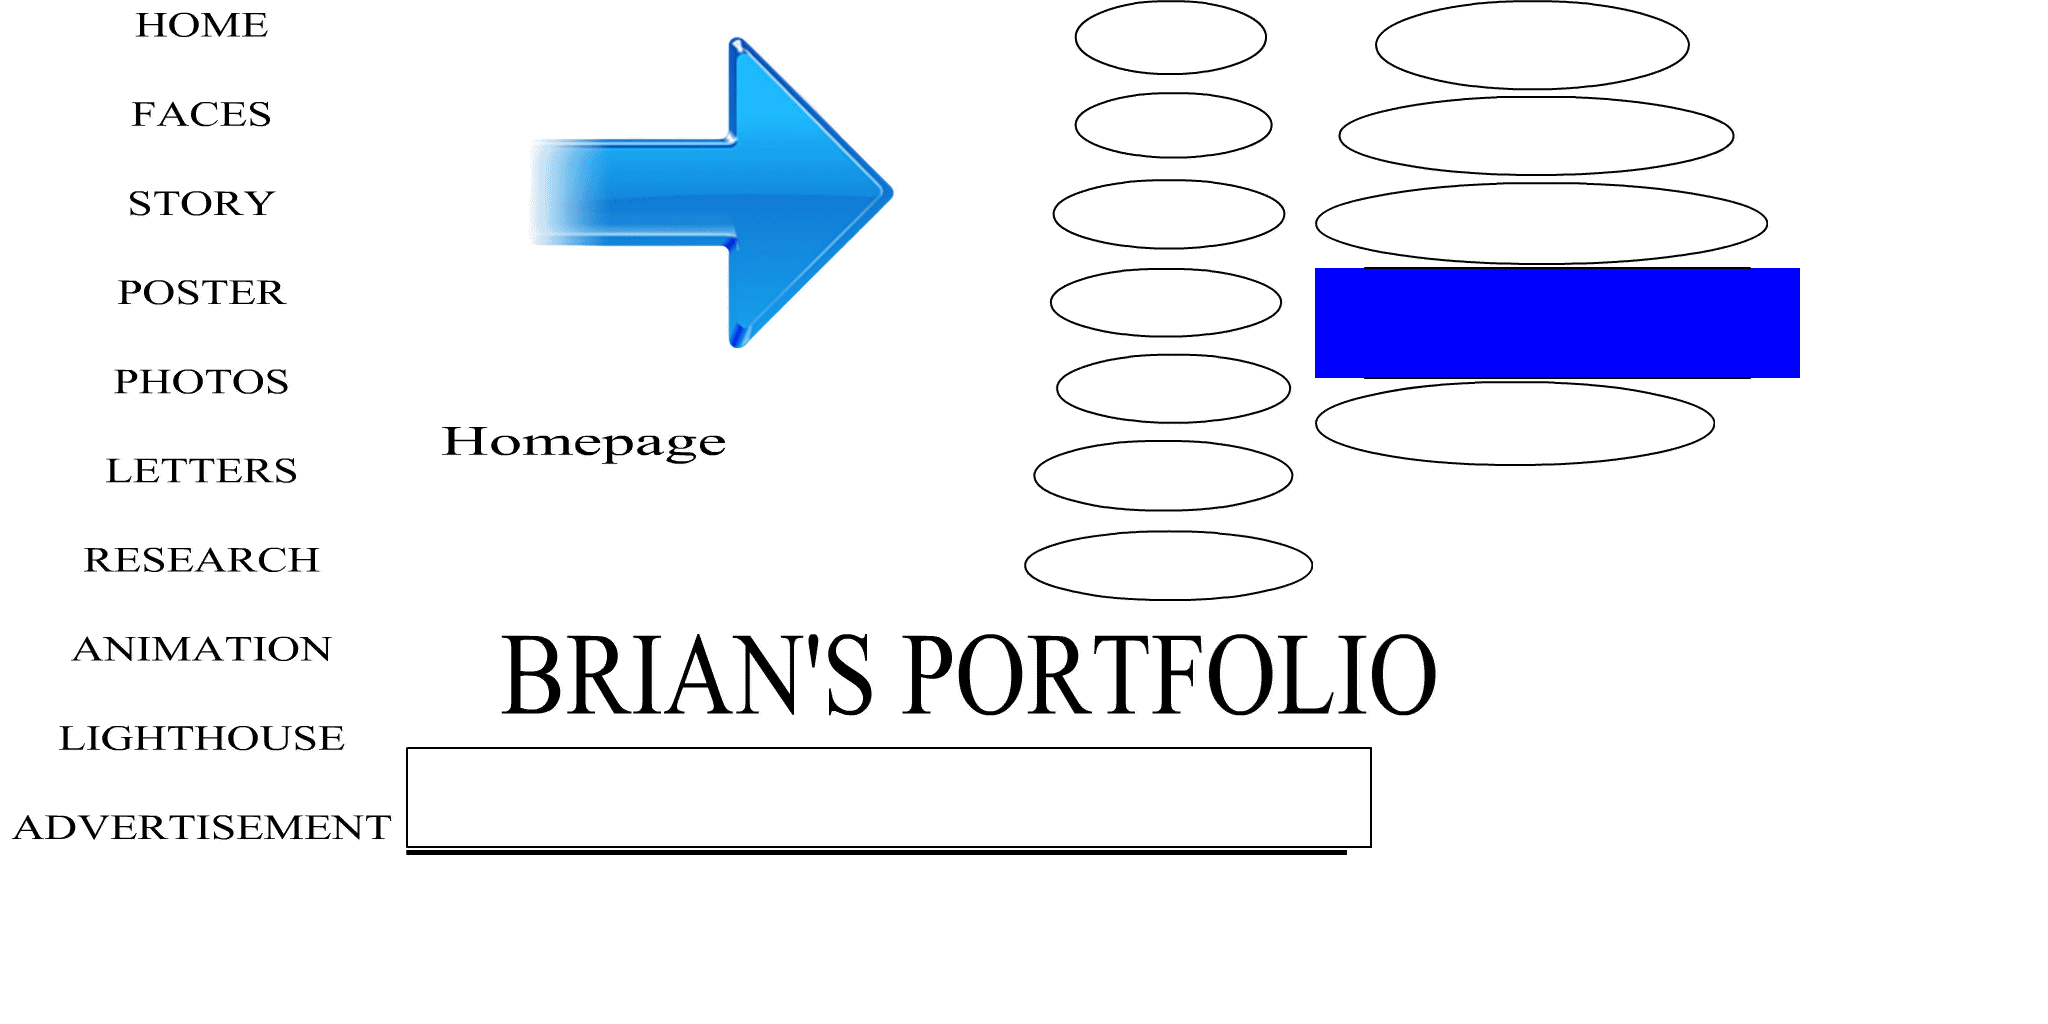
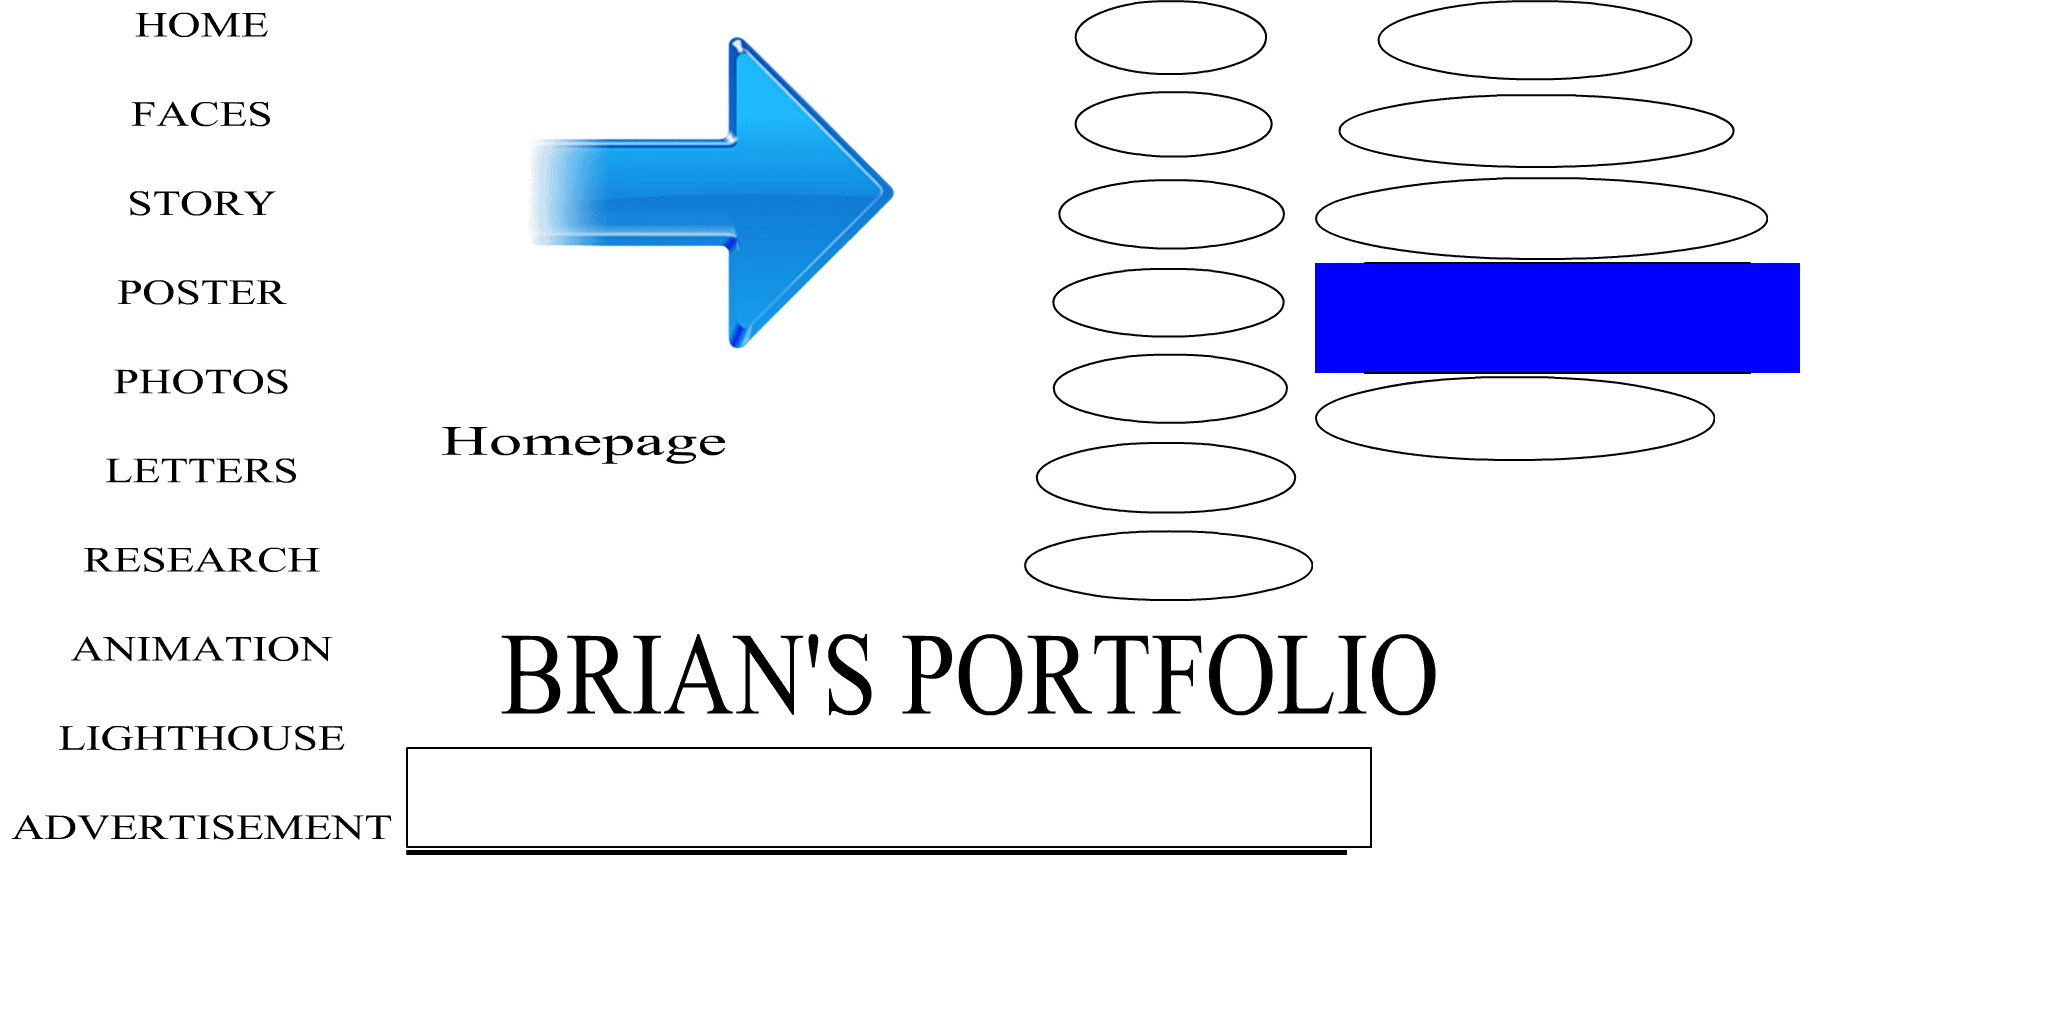
'Changes'

diff --git a/gd_portfolio/Controller.js b/gd_portfolio/Controller.js
@@ -4,7 +4,7 @@ var p; // shortcut to reference prototypes
 var lib={};var ss={};var img={};
 lib.ssMetadata = [
 		{name:"Controller_atlas_", frames: [[0,0,1920,1200]]},
-		{name:"Controller_atlas_2", frames: [[1315,267,485,112],[406,747,966,101],[406,603,1128,142],[406,850,941,5],[1024,0,289,601],[1315,381,400,85],[406,407,356,68],[0,0,404,852],[1315,0,453,265],[406,0,616,405]]}
+		{name:"Controller_atlas_2", frames: [[1315,262,485,112],[406,747,966,101],[406,603,1128,142],[406,850,941,5],[1024,0,289,601],[1315,376,400,85],[406,407,356,68],[0,0,404,852],[1315,0,453,260],[406,0,616,405]]}
 ];
 
 
@@ -214,7 +214,7 @@ p.nominalBounds = new cjs.Rectangle(-22,-0.5,264.5,56);
 		this.btn_ad.addEventListener("click", fl_ClickToGoToAndStopAtFrame_10.bind(this));
 		
 		function fl_ClickToGoToAndStopAtFrame_10() {
-			$("#video_ins")[0].src = "IT.mkv";
+			$("#video_ins")[0].src = "IT2.mp4";
 		}
 		
 		this.return_btn.addEventListener("click", a);
@@ -305,7 +305,7 @@ p.nominalBounds = new cjs.Rectangle(-22,-0.5,264.5,56);
 	this.instance_1.setTransform(134.65,208.15,0.5,0.5);
 
 	this.instance_2 = new lib.CachedBmp_1();
-	this.instance_2.setTransform(124.35,508.95,0.5,0.5);
+	this.instance_2.setTransform(124.35,511.45,0.5,0.5);
 
 	this.timeline.addTween(cjs.Tween.get({}).to({state:[{t:this.instance_2},{t:this.instance_1},{t:this.instance}]}).wait(1));
 
@@ -355,11 +355,11 @@ lib.properties = {
 	color: "#FFFFFF",
 	opacity: 1.00,
 	manifest: [
-		{src:"images/Controller_atlas_.png?1588952116522", id:"Controller_atlas_"},
-		{src:"images/Controller_atlas_2.png?1588952116522", id:"Controller_atlas_2"},
-		{src:"https://code.jquery.com/jquery-3.4.1.min.js?1588952116542", id:"lib/jquery-3.4.1.min.js"},
-		{src:"components/sdk/anwidget.js?1588952116542", id:"sdk/anwidget.js"},
-		{src:"components/video/src/video.js?1588952116542", id:"an.Video"}
+		{src:"images/Controller_atlas_.png?1589134180115", id:"Controller_atlas_"},
+		{src:"images/Controller_atlas_2.png?1589134180115", id:"Controller_atlas_2"},
+		{src:"https://code.jquery.com/jquery-3.4.1.min.js?1589134180134", id:"lib/jquery-3.4.1.min.js"},
+		{src:"components/sdk/anwidget.js?1589134180134", id:"sdk/anwidget.js"},
+		{src:"components/video/src/video.js?1589134180134", id:"an.Video"}
 	],
 	preloads: []
 };

diff --git a/gd_portfolio/Controller.html b/gd_portfolio/Controller.html
@@ -14,7 +14,7 @@
 <title>Controller</title>
 <!-- write your code here -->
 <script src="https://code.createjs.com/1.0.0/createjs.min.js"></script>
-<script src="Controller.js?1588952116565"></script>
+<script src="Controller.js?1589134180157"></script>
 <script>
 var canvas, stage, exportRoot, anim_container, dom_overlay_container, fnStartAnimation;
 function init() {
